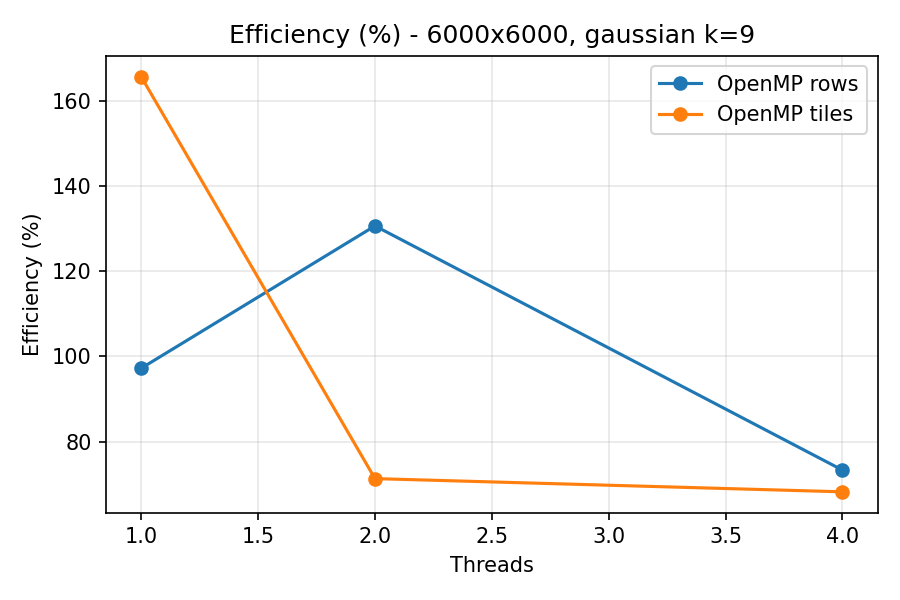
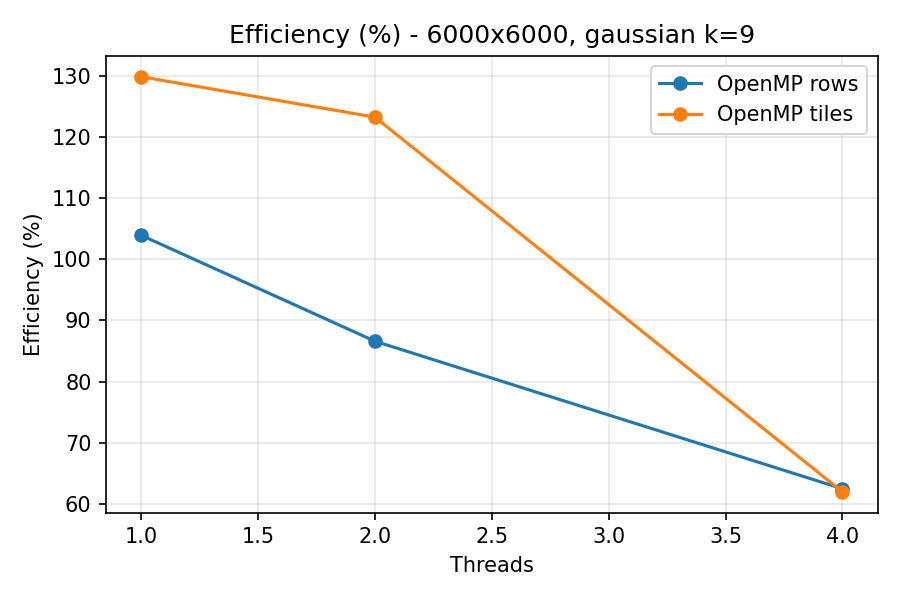
Fix scalability progress and stale output UI

diff --git a/frontend/templates/index.html b/frontend/templates/index.html
@@ -69,6 +69,7 @@
   .explanation p { margin:0 0 8px; }
   .results { min-width:0; }
   .result-empty { min-height:410px; padding:26px; display:grid; place-items:center; text-align:center; background:var(--surface); border:1px solid var(--line); box-shadow:var(--shadow); }
+  .result-empty[hidden],.live-progress[hidden],.benchmark-out[hidden],.worker-visual[hidden] { display:none !important; }
   .empty-mark { width:62px; height:62px; margin:0 auto 17px; display:grid; place-items:center; border:1px solid #9bb2a2; color:var(--green); font:18px "DM Mono",monospace; }
   .result-empty h3 { margin:0 0 8px; font-size:16px; }
   .result-empty p { max-width:370px; margin:0; color:var(--muted); font-size:12px; line-height:1.65; }
@@ -419,7 +420,25 @@ function updateRunControls() {
   $('#runButtonLabel').textContent = scaling ? 'Run scalability test' : 'Run image filter';
 }
 
-document.querySelectorAll('input[name="source"],input[name="task"]').forEach(input => input.addEventListener('change',updateRunControls));
+function clearInspectOutput() {
+  $('#procResults').replaceChildren();
+  $('#benchOut').hidden = true;
+  $('#liveProgress').hidden = true;
+  $('#liveProgress').classList.remove('done','failed');
+  $('#workerVisual').hidden = true;
+  $('#workerLegend').replaceChildren();
+  $('#workerCanvas').getContext('2d').clearRect(0,0,$('#workerCanvas').width,$('#workerCanvas').height);
+  workerMap = null;
+  $('#resultEmpty').hidden = false;
+  showMessage($('#procMsg'),'Choose a source and run an image operation.',false);
+}
+
+document.querySelectorAll('input[name="source"],input[name="task"]').forEach(input => {
+  input.addEventListener('change',() => {
+    updateRunControls();
+    clearInspectOutput();
+  });
+});
 updateRunControls();
 
 function showMessage(node, text, isError) {
@@ -462,11 +481,15 @@ function updateLiveProgress(progress) {
   const panel = $('#liveProgress');
   panel.hidden = false;
   panel.classList.remove('done','failed');
-  $('#liveTitle').textContent = `${phaseNames[progress.phase]} · ${progress.filename}`;
-  $('#liveCount').textContent = `Image ${progress.index} / ${progress.total}`;
+  $('#liveTitle').textContent = progress.filename
+    ? `${phaseNames[progress.phase]} · ${progress.filename}`
+    : phaseNames[progress.phase];
+  $('#liveCount').textContent = progress.index
+    ? `Image ${progress.index} / ${progress.total}`
+    : '';
   $('#liveDetail').textContent = progress.detail;
   if (progress.phase === 'prepare') $('#workerVisual').hidden = true;
-  if (progress.phase === 'parallel' && (!workerMap || workerMap.index !== progress.index)) setupWorkerMap(progress);
+  if (progress.index && progress.phase === 'parallel' && (!workerMap || workerMap.index !== progress.index)) setupWorkerMap(progress);
   const phases = [...panel.querySelectorAll('.live-phase')];
   const current = phases.findIndex(step => step.dataset.phase === progress.phase);
   phases.forEach((step, index) => {
@@ -507,7 +530,7 @@ function setupWorkerMap(progress) {
     top.append(swatch,name,percent); lane.append(top,track,status); legend.append(lane);
     state.lanes.push({lane,percent,fill,status});
   }
-  const file = fileInput.files[progress.index - 1];
+  const file = progress.preview ? null : fileInput.files[progress.index - 1];
   if (file || progress.preview) {
     const source = new Image();
     const objectUrl = file ? URL.createObjectURL(file) : null;
@@ -623,6 +646,9 @@ async function runImageFilter() {
   $('#procResults').replaceChildren(); $('#resultEmpty').hidden = true;
   $('#benchOut').hidden = true;
   $('#liveProgress').hidden = true;
+  $('#workerVisual').hidden = true;
+  $('#workerLegend').replaceChildren();
+  $('#workerCanvas').getContext('2d').clearRect(0,0,$('#workerCanvas').width,$('#workerCanvas').height);
   workerMap = null;
   showMessage($('#procMsg'), `Starting ${total} image${total === 1 ? '' : 's'}...`, false);
   try {
@@ -711,7 +737,16 @@ async function runScalabilityTest() {
     mode:form.get('mode'), threads:[...new Set(threadValues)], gray:form.get('gray') === 'on'
   };
   const button = $('#procBtn'); button.disabled = true;
-  $('#procResults').replaceChildren(); $('#liveProgress').hidden = true;
+  $('#procResults').replaceChildren();
+  $('#workerVisual').hidden = true;
+  $('#workerLegend').replaceChildren();
+  $('#workerCanvas').getContext('2d').clearRect(0,0,$('#workerCanvas').width,$('#workerCanvas').height);
+  workerMap = null;
+  $('#liveProgress').hidden = false;
+  $('#liveProgress').classList.remove('done','failed');
+  $('#liveTitle').textContent = 'Starting scalability benchmark';
+  $('#liveCount').textContent = '';
+  $('#liveDetail').textContent = 'Preparing the source and sequential reference.';
   $('#resultEmpty').hidden = true; $('#benchOut').hidden = true;
   showMessage($('#procMsg'),'Running a sequential baseline and repeating the same input/filter with each thread count. This can take several minutes for large images.',false);
   try {
@@ -729,8 +764,24 @@ async function runScalabilityTest() {
       options = {method:'POST',body:payload};
     }
     const response = await fetch('/api/benchmark',options);
-    const data = await response.json();
-    if (!response.ok) throw new Error(data.error || `Request failed (${response.status}).`);
+    if (!response.ok) {
+      const data = await response.json();
+      throw new Error(data.error || `Request failed (${response.status}).`);
+    }
+    let data = null;
+    let completed = false;
+    for await (const item of readEventStream(response)) {
+      if (item.event === 'progress') updateLiveProgress(item.payload);
+      else if (item.event === 'result') data = item.payload;
+      else if (item.event === 'done') {
+        completed = true;
+        $('#liveProgress').classList.add('done');
+        $('#liveTitle').textContent = 'Scalability benchmark complete';
+        $('#liveDetail').textContent = `${item.payload.successful} of ${item.payload.total} thread-count runs completed.`;
+        $('#workerVisual').hidden = true;
+      } else if (item.event === 'error') throw new Error(item.payload.message);
+    }
+    if (!completed || !data) throw new Error('The benchmark stream ended before completion.');
     $('#benchmarkPreview').src = data.original_preview;
     $('#benchmarkResultPreview').src = data.filtered_preview;
     $('#benchmarkPreviewCaption').textContent = `Input · ${data.source} · ${data.width} × ${data.height}`;
@@ -758,8 +809,14 @@ async function runScalabilityTest() {
       table.append(tr);
     }
     $('#benchOut').hidden = false;
+    $('#procResults').replaceChildren();
+    $('#resultEmpty').hidden = true;
+    $('#liveProgress').hidden = true;
     showMessage($('#procMsg'),`Scalability test finished for ${data.source}. The displayed filtered result came from the last thread-count run.`,false);
   } catch (error) {
+    $('#liveProgress').classList.add('failed');
+    $('#liveTitle').textContent = 'Scalability benchmark stopped';
+    $('#liveDetail').textContent = explainRequestError(error);
     showMessage($('#procMsg'),explainRequestError(error),true);
   } finally { button.disabled = false; }
 }

diff --git a/frontend/app.py b/frontend/app.py
@@ -333,51 +333,79 @@ def benchmark():
 
     preview_dir = TMP / f"benchmark-{uuid.uuid4().hex}"
     preview_dir.mkdir()
-    try:
-        if is_synthetic:
-            common = ["--generate", f"{size}x{size}", "--channels", 1 if d.get("gray") else 3,
-                      "--filter", flt, "--ksize", ksize]
-            width = height = size
-            preview_path = preview_dir / "input-preview.ppm"
-            sequential_args = common + ["--mode", "seq", "--preview-output", preview_path]
-            original_preview_source = preview_path
-            source_name = f"Synthetic {size} × {size}"
-        else:
-            gray = d.get("gray") == "on"
-            with Image.open(image_file.stream) as source_image:
-                image = source_image.convert("L" if gray else "RGB")
-            width, height = image.size
-            input_path = preview_dir / "input.ppm"
-            image.save(input_path, format="PPM")
-            common = ["--input", input_path, "--filter", flt, "--ksize", ksize]
-            sequential_args = common + ["--mode", "seq"]
-            original_preview_source = image
-            source_name = Path(image_file.filename).name
 
-        seq = run_engine(sequential_args)
-        rows = []
-        output_path = preview_dir / "filtered.ppm"
-        for t in threads:
-            r = run_engine(common + [
-                "--mode", mode, "--threads", t,
-                "--output", output_path, "--verify",
-            ])
-            sp = seq["avg_ms"] / r["avg_ms"] if r["avg_ms"] else 0
-            rows.append(dict(
-                threads=t, time_ms=r["avg_ms"], speedup=round(sp, 3),
-                efficiency=round(sp / t * 100, 1), verified=r["verified"],
+    def generate_benchmark():
+        try:
+            if is_synthetic:
+                common = ["--generate", f"{size}x{size}", "--channels", 1 if d.get("gray") else 3,
+                          "--filter", flt, "--ksize", ksize]
+                width = height = size
+                preview_path = preview_dir / "input-preview.ppm"
+                sequential_args = common + ["--mode", "seq", "--preview-output", preview_path]
+                original_preview_source = preview_path
+                source_name = f"Synthetic {size} × {size}"
+            else:
+                gray = d.get("gray") == "on"
+                with Image.open(image_file.stream) as source_image:
+                    image = source_image.convert("L" if gray else "RGB")
+                width, height = image.size
+                input_path = preview_dir / "input.ppm"
+                image.save(input_path, format="PPM")
+                common = ["--input", input_path, "--filter", flt, "--ksize", ksize]
+                sequential_args = common + ["--mode", "seq"]
+                original_preview_source = image
+                source_name = Path(image_file.filename).name
+
+            yield stream_event("progress", dict(
+                phase="prepare", filename=source_name,
+                detail=("Generating the synthetic image and preparing the benchmark source."
+                        if is_synthetic else "Preparing the uploaded image for the C++ engine."),
             ))
-        return jsonify(
-            seq_ms=seq["avg_ms"], rows=rows, size=size,
-            width=width, height=height, source=source_name,
-            original_preview=to_data_url(original_preview_source, max_side=600),
-            filtered_preview=to_data_url(output_path, max_side=600),
-            filtered_threads=threads[-1],
-        )
-    except Exception as e:
-        return jsonify(error=str(e)), 500
-    finally:
-        shutil.rmtree(preview_dir, ignore_errors=True)
+            seq = run_engine(sequential_args)
+            yield stream_event("progress", dict(
+                phase="sequential", filename=source_name,
+                detail=f"Sequential baseline complete: {seq['avg_ms']:.1f} ms.",
+            ))
+
+            rows = []
+            output_path = preview_dir / "filtered.ppm"
+            for index, t in enumerate(threads, start=1):
+                yield stream_event("progress", dict(
+                    phase="parallel", filename=source_name,
+                    detail=f"Running OpenMP test {index}/{len(threads)} with {t} thread(s).",
+                ))
+                r = run_engine(common + [
+                    "--mode", mode, "--threads", t,
+                    "--output", output_path, "--verify",
+                ])
+                sp = seq["avg_ms"] / r["avg_ms"] if r["avg_ms"] else 0
+                rows.append(dict(
+                    threads=t, time_ms=r["avg_ms"], speedup=round(sp, 3),
+                    efficiency=round(sp / t * 100, 1), verified=r["verified"],
+                ))
+
+            yield stream_event("progress", dict(
+                phase="preview", filename=source_name,
+                detail="Building the benchmark charts and result previews.",
+            ))
+            yield stream_event("result", dict(
+                seq_ms=seq["avg_ms"], rows=rows, size=size,
+                width=width, height=height, source=source_name,
+                original_preview=to_data_url(original_preview_source, max_side=600),
+                filtered_preview=to_data_url(output_path, max_side=600),
+                filtered_threads=threads[-1],
+            ))
+            yield stream_event("done", dict(successful=len(rows), total=len(threads)))
+        except Exception as exc:
+            yield stream_event("error", dict(message=str(exc)))
+        finally:
+            shutil.rmtree(preview_dir, ignore_errors=True)
+
+    return Response(
+        stream_with_context(generate_benchmark()),
+        mimetype="text/event-stream",
+        headers={"Cache-Control": "no-cache", "X-Accel-Buffering": "no"},
+    )
 
 
 @app.errorhandler(413)
